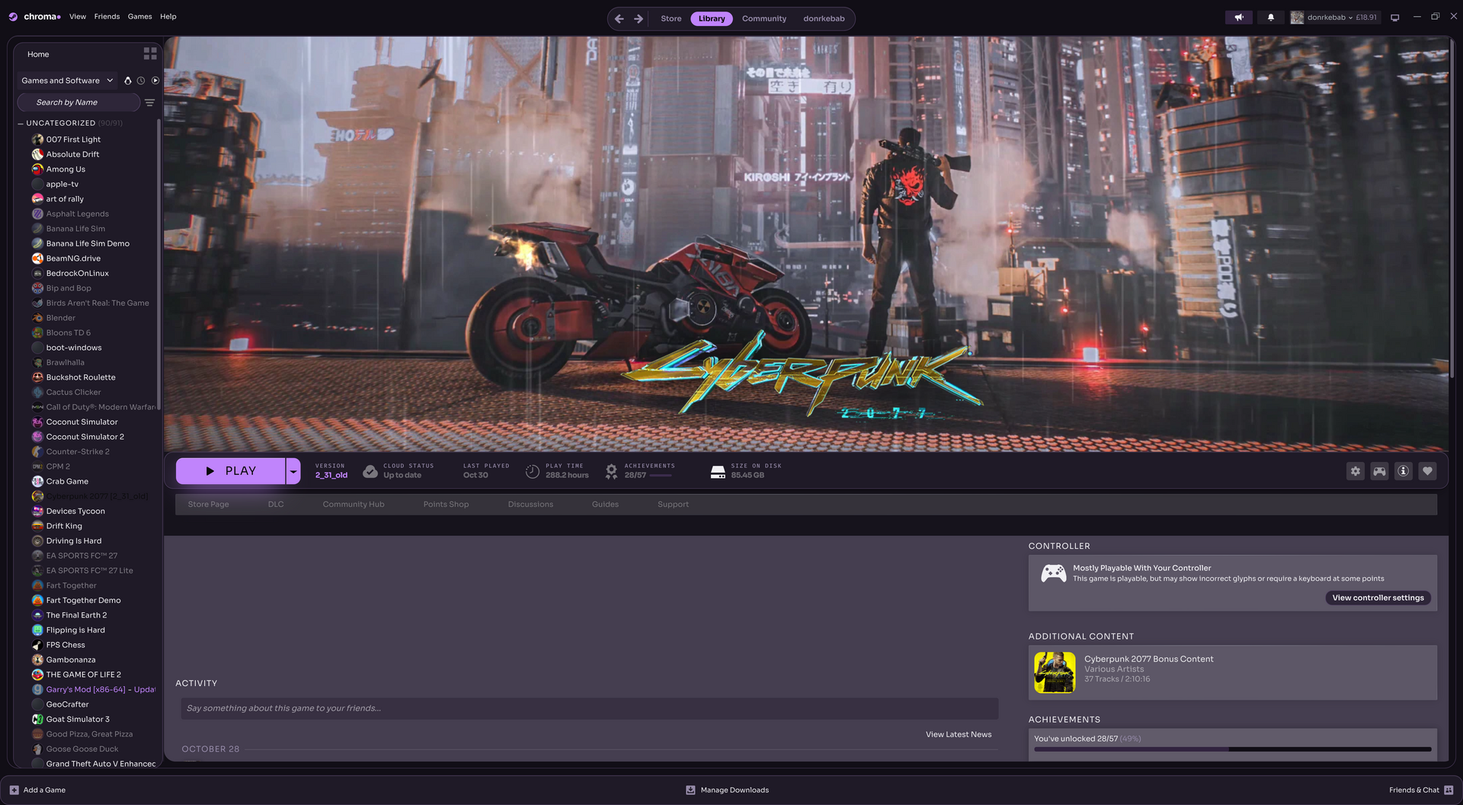
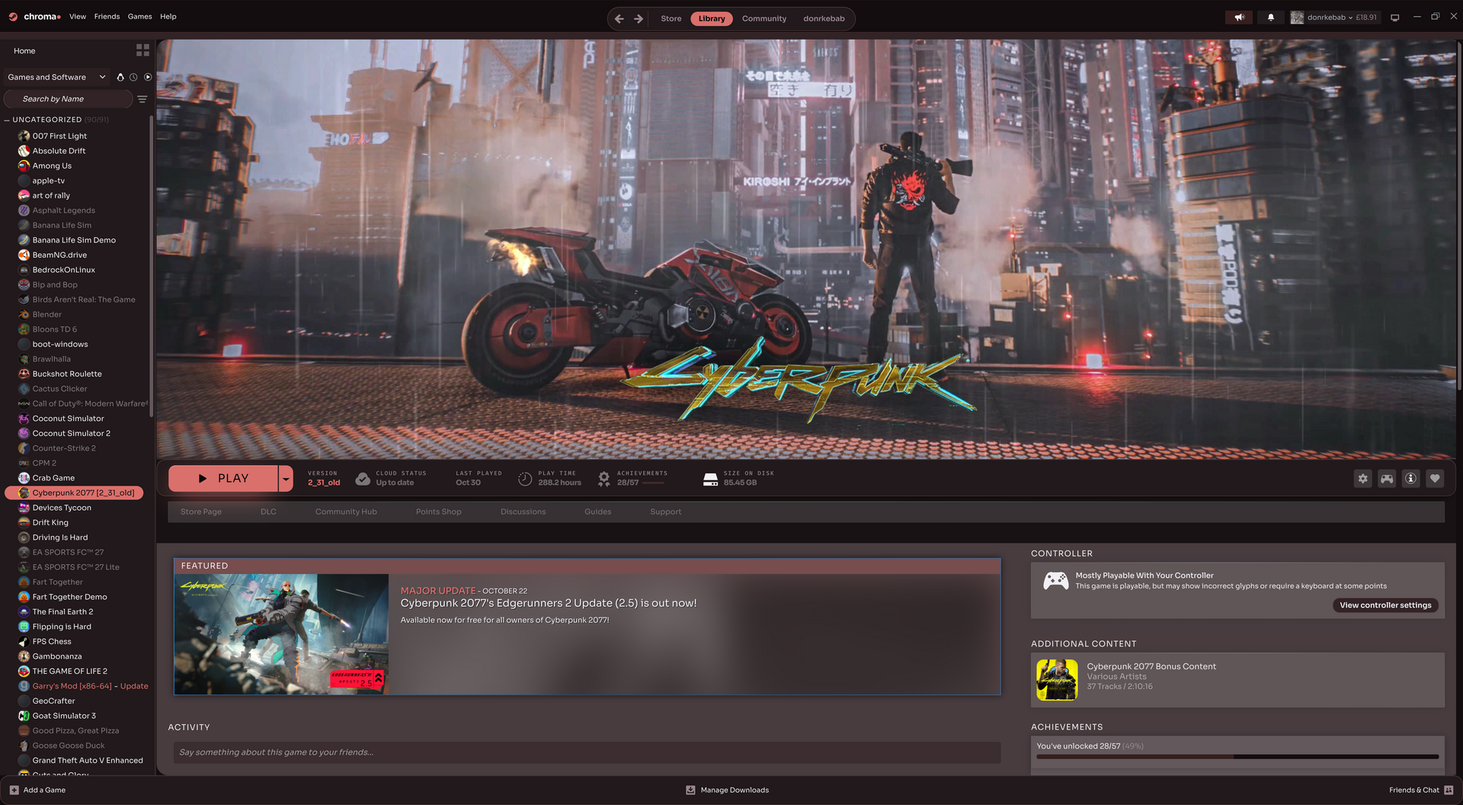
Emerald idle colour, flush layout with pill-chip shelves, refreshed screenshots

diff --git a/mx/main.css b/mx/main.css
@@ -825,7 +825,7 @@ button.DialogButton:disabled,button.DialogButton:disabled:hover,button.DialogBut
 .videoSrc{border-left:1px solid var(--g0)!important;border-right:1px solid var(--g0)!important;background-color:var(--g1)!important}
 .StandalonePlayerHeader{background-color:color-mix(in srgb,var(--g2) 30%,transparent)!important}
 .yCd0zjymzfw3HkVm-1YwX{background-color:var(--g1)!important;background-color:var(--g0)!important}
-:root{--acc:#c084fc;--acc2:color-mix(in srgb,var(--acc) 60%,#fff);--bg-solid:color-mix(in srgb,var(--acc) 5%,#08080a);--bg:var(--bg-solid);--text:#f1f0f4;--mute:color-mix(in srgb,var(--acc) 18%,#8a8a94);--font:'Sora',system-ui,sans-serif;--font-display:'Sora',system-ui,sans-serif;--font-mono:'Fira Code',monospace;--r:12px;--grain:0;--surface-solid:color-mix(in srgb,var(--acc) 8%,#111114);--surface-solid-2:color-mix(in srgb,var(--acc) 13%,#18181c);--surface:var(--surface-solid);--surface-2:var(--surface-solid-2);--panel:var(--surface-solid);--pop:var(--surface-solid-2);--input:var(--surface-solid-2);--dock:var(--surface-solid);--hover:color-mix(in srgb,var(--acc) 12%,transparent);--line:color-mix(in srgb,var(--acc) 16%,#ffffff12);--line-hi:color-mix(in srgb,var(--acc) 60%,transparent);--thumb:color-mix(in srgb,var(--acc) 30%,#ffffff20);--ring:color-mix(in srgb,var(--acc) 30%,transparent);--hi:#ffffff0d;--spot:transparent;--fx:none;--fx-anim:none;--h-size:26px;--h-w:700;--h-ls:-.03em;--h-fill:linear-gradient(#f1f0f4,#f1f0f4);--rule:var(--line);--btn-r:12px;--btn-bg:var(--surface-solid-2);--btn-fg:#f1f0f4;--btn-border:1px solid var(--line);--btn-bg-h:color-mix(in srgb,var(--acc) 20%,#1c1c20);--btn-fg-h:#fff;--btn-glow:0 0 0 1px var(--line-hi);--btn-pri:var(--acc);--btn-pri-fg:#0b0b0d;--gap:12px;--rx:16px;--rx-xl:20px;--icon-r:8px;--sel:var(--acc);--sel-fg:#0b0b0d;--sh-size:15px;--shelf-size:22px;--store-h1:36px;--cover-r:12px;--cover-glow:0 14px 30px -14px var(--acc);--rail-bg:var(--surface-solid);--logo-a:"chroma";--logo-b:"●";--logo-font:700 15px 'Sora',sans-serif;--logo-ls:-.03em;--nav-size:13px;--nav-w:600;--nav-ls:-.01em;--nav-r:999px;--nav-sel-bg:var(--acc);--nav-sel-fg:#0b0b0d;--login-h:34px;--avatar-r:50%;--bubble-r:14px;--play-r:12px;--stat-size:18px;--price-bg:var(--acc);--price-fg:#0b0b0d;--st-online:#7dd3fc;--st-ingame:#86efac}
+:root{--acc:#34d399;--acc2:color-mix(in srgb,var(--acc) 60%,#fff);--bg-solid:color-mix(in srgb,var(--acc) 5%,#08080a);--bg:var(--bg-solid);--text:#f1f0f4;--mute:color-mix(in srgb,var(--acc) 18%,#8a8a94);--font:'Sora',system-ui,sans-serif;--font-display:'Sora',system-ui,sans-serif;--font-mono:'Fira Code',monospace;--r:12px;--grain:0;--surface-solid:color-mix(in srgb,var(--acc) 8%,#111114);--surface-solid-2:color-mix(in srgb,var(--acc) 13%,#18181c);--surface:var(--surface-solid);--surface-2:var(--surface-solid-2);--panel:var(--surface-solid);--pop:var(--surface-solid-2);--input:var(--surface-solid-2);--dock:var(--surface-solid);--hover:color-mix(in srgb,var(--acc) 12%,transparent);--line:color-mix(in srgb,var(--acc) 16%,#ffffff12);--line-hi:color-mix(in srgb,var(--acc) 60%,transparent);--thumb:color-mix(in srgb,var(--acc) 30%,#ffffff20);--ring:color-mix(in srgb,var(--acc) 30%,transparent);--hi:#ffffff0d;--spot:transparent;--fx:none;--fx-anim:none;--h-size:26px;--h-w:700;--h-ls:-.03em;--h-fill:linear-gradient(#f1f0f4,#f1f0f4);--rule:var(--line);--btn-r:12px;--btn-bg:var(--surface-solid-2);--btn-fg:#f1f0f4;--btn-border:1px solid var(--line);--btn-bg-h:color-mix(in srgb,var(--acc) 20%,#1c1c20);--btn-fg-h:#fff;--btn-glow:0 0 0 1px var(--line-hi);--btn-pri:var(--acc);--btn-pri-fg:#0b0b0d;--gap:12px;--rx:16px;--rx-xl:20px;--icon-r:8px;--sel:var(--acc);--sel-fg:#0b0b0d;--sh-size:15px;--shelf-size:22px;--store-h1:36px;--cover-r:12px;--cover-glow:0 14px 30px -14px var(--acc);--rail-bg:var(--surface-solid);--logo-a:"chroma";--logo-b:"●";--logo-font:700 15px 'Sora',sans-serif;--logo-ls:-.03em;--nav-size:13px;--nav-w:600;--nav-ls:-.01em;--nav-r:999px;--nav-sel-bg:var(--acc);--nav-sel-fg:#0b0b0d;--login-h:34px;--avatar-r:50%;--bubble-r:14px;--play-r:12px;--stat-size:18px;--price-bg:var(--acc);--price-fg:#0b0b0d;--st-online:#7dd3fc;--st-ingame:#86efac}
 html,body{-webkit-font-smoothing:antialiased}
 body::before{content:"";position:fixed;inset:-20%;pointer-events:none;z-index:0;contain:strict;background:var(--fx)}
 ._3AhYljPF4e4E8LaBt-FoY0{border-radius:var(--r);transition:.1s}
@@ -925,12 +925,11 @@ body::before{content:"";position:fixed;inset:-20%;pointer-events:none;z-index:0;
 #q-load{position:fixed;inset:0;z-index:2147483000;display:flex;flex-direction:column;align-items:center;justify-content:center;gap:20px;background:var(--bg-solid);transition:opacity .3s ease}
 #q-load .q-mark::before{content:var(--logo-a) var(--logo-b);font:var(--logo-font);font-size:56px;letter-spacing:var(--logo-ls,0);color:var(--text);line-height:1}
 #q-load.out{opacity:0;pointer-events:none}
-:root{--acc:#c084fc;--acc2:color-mix(in srgb,var(--acc) 60%,#fff);--bg-solid:color-mix(in srgb,var(--acc) 5%,#08080a);--bg:var(--bg-solid);--text:#f1f0f4;--mute:color-mix(in srgb,var(--acc) 18%,#8a8a94);--font:'Sora',system-ui,sans-serif;--font-display:'Sora',system-ui,sans-serif;--font-mono:'Fira Code',monospace;--r:12px;--grain:0;--surface-solid:color-mix(in srgb,var(--acc) 8%,#111114);--surface-solid-2:color-mix(in srgb,var(--acc) 13%,#18181c);--surface:var(--surface-solid);--surface-2:var(--surface-solid-2);--panel:var(--surface-solid);--pop:var(--surface-solid-2);--input:var(--surface-solid-2);--dock:var(--surface-solid);--hover:color-mix(in srgb,var(--acc) 12%,transparent);--line:color-mix(in srgb,var(--acc) 16%,#ffffff12);--line-hi:color-mix(in srgb,var(--acc) 60%,transparent);--thumb:color-mix(in srgb,var(--acc) 30%,#ffffff20);--ring:color-mix(in srgb,var(--acc) 30%,transparent);--hi:#ffffff0d;--spot:transparent;--fx:none;--fx-anim:none;--h-size:26px;--h-w:700;--h-ls:-.03em;--h-fill:linear-gradient(#f1f0f4,#f1f0f4);--rule:var(--line);--btn-r:12px;--btn-bg:var(--surface-solid-2);--btn-fg:#f1f0f4;--btn-border:1px solid var(--line);--btn-bg-h:color-mix(in srgb,var(--acc) 20%,#1c1c20);--btn-fg-h:#fff;--btn-glow:0 0 0 1px var(--line-hi);--btn-pri:var(--acc);--btn-pri-fg:#0b0b0d;--gap:12px;--rx:16px;--rx-xl:20px;--icon-r:8px;--sel:var(--acc);--sel-fg:#0b0b0d;--sh-size:15px;--shelf-size:22px;--store-h1:36px;--cover-r:12px;--cover-glow:0 14px 30px -14px var(--acc);--rail-bg:var(--surface-solid);--logo-a:"chroma";--logo-b:"●";--logo-font:700 15px 'Sora',sans-serif;--logo-ls:-.03em;--nav-size:13px;--nav-w:600;--nav-ls:-.01em;--nav-r:999px;--nav-sel-bg:var(--acc);--nav-sel-fg:#0b0b0d;--login-h:34px;--avatar-r:50%;--bubble-r:14px;--play-r:12px;--stat-size:18px;--price-bg:var(--acc);--price-fg:#0b0b0d;--st-online:#7dd3fc;--st-ingame:#86efac}
-._3x1HklzyDs4TEjACrRO2tB{overflow:hidden}
+:root{--acc:#34d399;--acc2:color-mix(in srgb,var(--acc) 60%,#fff);--bg-solid:color-mix(in srgb,var(--acc) 5%,#08080a);--bg:var(--bg-solid);--text:#f1f0f4;--mute:color-mix(in srgb,var(--acc) 18%,#8a8a94);--font:'Sora',system-ui,sans-serif;--font-display:'Sora',system-ui,sans-serif;--font-mono:'Fira Code',monospace;--r:12px;--grain:0;--surface-solid:color-mix(in srgb,var(--acc) 8%,#111114);--surface-solid-2:color-mix(in srgb,var(--acc) 13%,#18181c);--surface:var(--surface-solid);--surface-2:var(--surface-solid-2);--panel:var(--surface-solid);--pop:var(--surface-solid-2);--input:var(--surface-solid-2);--dock:var(--surface-solid);--hover:color-mix(in srgb,var(--acc) 12%,transparent);--line:color-mix(in srgb,var(--acc) 16%,#ffffff12);--line-hi:color-mix(in srgb,var(--acc) 60%,transparent);--thumb:color-mix(in srgb,var(--acc) 30%,#ffffff20);--ring:color-mix(in srgb,var(--acc) 30%,transparent);--hi:#ffffff0d;--spot:transparent;--fx:none;--fx-anim:none;--h-size:26px;--h-w:700;--h-ls:-.03em;--h-fill:linear-gradient(#f1f0f4,#f1f0f4);--rule:var(--line);--btn-r:12px;--btn-bg:var(--surface-solid-2);--btn-fg:#f1f0f4;--btn-border:1px solid var(--line);--btn-bg-h:color-mix(in srgb,var(--acc) 20%,#1c1c20);--btn-fg-h:#fff;--btn-glow:0 0 0 1px var(--line-hi);--btn-pri:var(--acc);--btn-pri-fg:#0b0b0d;--gap:12px;--rx:16px;--rx-xl:20px;--icon-r:8px;--sel:var(--acc);--sel-fg:#0b0b0d;--sh-size:15px;--shelf-size:22px;--store-h1:36px;--cover-r:12px;--cover-glow:0 14px 30px -14px var(--acc);--rail-bg:var(--surface-solid);--logo-a:"chroma";--logo-b:"●";--logo-font:700 15px 'Sora',sans-serif;--logo-ls:-.03em;--nav-size:13px;--nav-w:600;--nav-ls:-.01em;--nav-r:999px;--nav-sel-bg:var(--acc);--nav-sel-fg:#0b0b0d;--login-h:34px;--avatar-r:50%;--bubble-r:14px;--play-r:12px;--stat-size:18px;--price-bg:var(--acc);--price-fg:#0b0b0d;--st-online:#7dd3fc;--st-ingame:#86efac}
 ._23SnllqT_AqZ1C_QHcNQ4Z::after{display:none}
 ._1R9r2OBCxAmtuUVrgBEUBw:hover{transform:translateY(-4px) scale(1.02)}
 @layer theme{
-:root{--st-background:10,10,12!important;--st-color-1:17,17,20!important;--st-color-2:24,24,28!important;--st-color-3:19,19,22!important;--st-color-4:21,21,25!important;--st-color-5:40,40,46!important;--st-color-6:34,34,39!important;--st-accent-1:192,132,252!important;--st-accent-2:216,180,254!important;--st-blue:192,132,252!important;--st-blue-hover:216,180,254!important;--st-green:74,222,128!important;--st-green-hover:110,231,155!important;--st-red:248,113,113!important;--st-red-hover:252,140,140!important;--st-yellow:250,204,21!important;--st-yellow-hover:253,224,71!important;--st-border-radius:14px!important}
+:root{--st-background:10,10,12!important;--st-color-1:17,17,20!important;--st-color-2:24,24,28!important;--st-color-3:19,19,22!important;--st-color-4:21,21,25!important;--st-color-5:40,40,46!important;--st-color-6:34,34,39!important;--st-accent-1:52,211,153!important;--st-accent-2:167,243,208!important;--st-blue:52,211,153!important;--st-blue-hover:110,231,183!important;--st-green:74,222,128!important;--st-green-hover:110,231,155!important;--st-red:248,113,113!important;--st-red-hover:252,140,140!important;--st-yellow:250,204,21!important;--st-yellow-hover:253,224,71!important;--st-border-radius:14px!important}
 :root{--gpColor-Blue:var(--acc)!important;--gpColor-Yellow:var(--acc2)!important}
 html,body{background:var(--bg)!important;color:var(--text)!important;font-family:var(--font)!important}
 *::selection{background:transparent!important;color:inherit!important}
@@ -1088,9 +1087,11 @@ body :is(input,textarea,:is([contenteditable=""],[contenteditable=true],[content
 .Rp8QOGJ2DypeDniMnRBhr ._3CN5DkgNMvdtT9fJhNOj_v::before{font-size:44px!important}
 .Rp8QOGJ2DypeDniMnRBhr ._6Z2AOU-R-8aK7KZevey0W img{border-radius:var(--avatar-r,50%)!important;box-shadow:0 0 0 2px var(--bg-solid),0 0 0 4px var(--acc)!important}
 .Rp8QOGJ2DypeDniMnRBhr ._6Z2AOU-R-8aK7KZevey0W{font-family:var(--font-display)!important;color:var(--text)!important}
-:root{--st-background:10,10,12!important;--st-color-1:17,17,20!important;--st-color-2:24,24,28!important;--st-color-3:19,19,22!important;--st-color-4:21,21,25!important;--st-color-5:40,40,46!important;--st-color-6:34,34,39!important;--st-accent-1:192,132,252!important;--st-accent-2:216,180,254!important;--st-blue:192,132,252!important;--st-blue-hover:216,180,254!important;--st-green:74,222,128!important;--st-green-hover:110,231,155!important;--st-red:248,113,113!important;--st-red-hover:252,140,140!important;--st-yellow:250,204,21!important;--st-yellow-hover:253,224,71!important;--st-border-radius:14px!important}
-._3x1HklzyDs4TEjACrRO2tB{margin:10px 0 10px 10px!important;border:1px solid var(--line)!important;border-radius:18px!important}
-.V7RuDNUxhxoBRaiGWbk3B,.rvYRfhjWoi57GShuRcAwP{margin:0 12px 12px!important;padding:16px 22px 22px!important;background:var(--surface-solid)!important;border:1px solid var(--line)!important;border-radius:18px!important}
-._3x1HklzyDs4TEjACrRO2tB ._2-O4ZG0KrnSrzISHBKctFQ{border-radius:10px!important;margin:1px 8px!important}
+:root{--st-background:10,10,12!important;--st-color-1:17,17,20!important;--st-color-2:24,24,28!important;--st-color-3:19,19,22!important;--st-color-4:21,21,25!important;--st-color-5:40,40,46!important;--st-color-6:34,34,39!important;--st-accent-1:52,211,153!important;--st-accent-2:167,243,208!important;--st-blue:52,211,153!important;--st-blue-hover:110,231,183!important;--st-green:74,222,128!important;--st-green-hover:110,231,155!important;--st-red:248,113,113!important;--st-red-hover:252,140,140!important;--st-yellow:250,204,21!important;--st-yellow-hover:253,224,71!important;--st-border-radius:14px!important}
+._3x1HklzyDs4TEjACrRO2tB{margin:0!important;border:0!important;border-right:1px solid var(--line)!important;border-radius:0!important}
+._1rDh5rXSFZJOqCa4UpnI4z{margin:0!important;border-radius:0!important;border:0!important;border-top:1px solid var(--line)!important;box-shadow:none!important}
+.V7RuDNUxhxoBRaiGWbk3B,.rvYRfhjWoi57GShuRcAwP{margin:0!important;padding:18px 28px 26px!important;background:transparent!important;border:0!important;border-radius:0!important}
+._23SnllqT_AqZ1C_QHcNQ4Z>*:first-child{display:inline-flex!important;padding:6px 14px!important;border-radius:999px!important;background:color-mix(in srgb,var(--acc) 16%,transparent)!important;color:var(--acc)!important;font-size:15px!important;letter-spacing:-.01em!important}
+._3x1HklzyDs4TEjACrRO2tB ._2-O4ZG0KrnSrzISHBKctFQ{border-radius:999px!important;margin:1px 8px!important}
 ._2UyOBeiSdBayaFdRa39N2O:nth-of-type(1)::after{color:var(--acc)!important}
 }

diff --git a/mx/popup.css b/mx/popup.css
@@ -47,7 +47,7 @@
   unicode-range: U+0000-00FF, U+0131, U+0152-0153, U+02BB-02BC, U+02C6, U+02DA, U+02DC, U+0304, U+0308, U+0329, U+2000-206F, U+20AC, U+2122, U+2191, U+2193, U+2212, U+2215, U+FEFF, U+FFFD;
 }
 @layer opt, theme;
-:root{--acc:#c084fc;--acc2:color-mix(in srgb,var(--acc) 60%,#fff);--bg-solid:color-mix(in srgb,var(--acc) 5%,#08080a);--bg:var(--bg-solid);--text:#f1f0f4;--mute:color-mix(in srgb,var(--acc) 18%,#8a8a94);--font:'Sora',system-ui,sans-serif;--font-display:'Sora',system-ui,sans-serif;--font-mono:'Fira Code',monospace;--r:12px;--grain:0;--surface-solid:color-mix(in srgb,var(--acc) 8%,#111114);--surface-solid-2:color-mix(in srgb,var(--acc) 13%,#18181c);--surface:var(--surface-solid);--surface-2:var(--surface-solid-2);--panel:var(--surface-solid);--pop:var(--surface-solid-2);--input:var(--surface-solid-2);--dock:var(--surface-solid);--hover:color-mix(in srgb,var(--acc) 12%,transparent);--line:color-mix(in srgb,var(--acc) 16%,#ffffff12);--line-hi:color-mix(in srgb,var(--acc) 60%,transparent);--thumb:color-mix(in srgb,var(--acc) 30%,#ffffff20);--ring:color-mix(in srgb,var(--acc) 30%,transparent);--hi:#ffffff0d;--spot:transparent;--fx:none;--fx-anim:none;--h-size:26px;--h-w:700;--h-ls:-.03em;--h-fill:linear-gradient(#f1f0f4,#f1f0f4);--rule:var(--line);--btn-r:12px;--btn-bg:var(--surface-solid-2);--btn-fg:#f1f0f4;--btn-border:1px solid var(--line);--btn-bg-h:color-mix(in srgb,var(--acc) 20%,#1c1c20);--btn-fg-h:#fff;--btn-glow:0 0 0 1px var(--line-hi);--btn-pri:var(--acc);--btn-pri-fg:#0b0b0d;--gap:12px;--rx:16px;--rx-xl:20px;--icon-r:8px;--sel:var(--acc);--sel-fg:#0b0b0d;--sh-size:15px;--shelf-size:22px;--store-h1:36px;--cover-r:12px;--cover-glow:0 14px 30px -14px var(--acc);--rail-bg:var(--surface-solid);--logo-a:"chroma";--logo-b:"●";--logo-font:700 15px 'Sora',sans-serif;--logo-ls:-.03em;--nav-size:13px;--nav-w:600;--nav-ls:-.01em;--nav-r:999px;--nav-sel-bg:var(--acc);--nav-sel-fg:#0b0b0d;--login-h:34px;--avatar-r:50%;--bubble-r:14px;--play-r:12px;--stat-size:18px;--price-bg:var(--acc);--price-fg:#0b0b0d;--st-online:#7dd3fc;--st-ingame:#86efac}
+:root{--acc:#34d399;--acc2:color-mix(in srgb,var(--acc) 60%,#fff);--bg-solid:color-mix(in srgb,var(--acc) 5%,#08080a);--bg:var(--bg-solid);--text:#f1f0f4;--mute:color-mix(in srgb,var(--acc) 18%,#8a8a94);--font:'Sora',system-ui,sans-serif;--font-display:'Sora',system-ui,sans-serif;--font-mono:'Fira Code',monospace;--r:12px;--grain:0;--surface-solid:color-mix(in srgb,var(--acc) 8%,#111114);--surface-solid-2:color-mix(in srgb,var(--acc) 13%,#18181c);--surface:var(--surface-solid);--surface-2:var(--surface-solid-2);--panel:var(--surface-solid);--pop:var(--surface-solid-2);--input:var(--surface-solid-2);--dock:var(--surface-solid);--hover:color-mix(in srgb,var(--acc) 12%,transparent);--line:color-mix(in srgb,var(--acc) 16%,#ffffff12);--line-hi:color-mix(in srgb,var(--acc) 60%,transparent);--thumb:color-mix(in srgb,var(--acc) 30%,#ffffff20);--ring:color-mix(in srgb,var(--acc) 30%,transparent);--hi:#ffffff0d;--spot:transparent;--fx:none;--fx-anim:none;--h-size:26px;--h-w:700;--h-ls:-.03em;--h-fill:linear-gradient(#f1f0f4,#f1f0f4);--rule:var(--line);--btn-r:12px;--btn-bg:var(--surface-solid-2);--btn-fg:#f1f0f4;--btn-border:1px solid var(--line);--btn-bg-h:color-mix(in srgb,var(--acc) 20%,#1c1c20);--btn-fg-h:#fff;--btn-glow:0 0 0 1px var(--line-hi);--btn-pri:var(--acc);--btn-pri-fg:#0b0b0d;--gap:12px;--rx:16px;--rx-xl:20px;--icon-r:8px;--sel:var(--acc);--sel-fg:#0b0b0d;--sh-size:15px;--shelf-size:22px;--store-h1:36px;--cover-r:12px;--cover-glow:0 14px 30px -14px var(--acc);--rail-bg:var(--surface-solid);--logo-a:"chroma";--logo-b:"●";--logo-font:700 15px 'Sora',sans-serif;--logo-ls:-.03em;--nav-size:13px;--nav-w:600;--nav-ls:-.01em;--nav-r:999px;--nav-sel-bg:var(--acc);--nav-sel-fg:#0b0b0d;--login-h:34px;--avatar-r:50%;--bubble-r:14px;--play-r:12px;--stat-size:18px;--price-bg:var(--acc);--price-fg:#0b0b0d;--st-online:#7dd3fc;--st-ingame:#86efac}
 :root{--ease:cubic-bezier(.2,.9,.25,1)}
 ._1OOQPJx0nCNP9ME9toCmV7 ._3-H47wPl1Ng3lh7xGZOPIg{overflow:hidden;position:relative;animation:toast .35s var(--ease) both}
 ._1OOQPJx0nCNP9ME9toCmV7 ._3-H47wPl1Ng3lh7xGZOPIg::before{content:"";position:absolute;left:0;top:0;bottom:0;width:3px;background:linear-gradient(var(--acc),var(--acc2))}
@@ -55,7 +55,7 @@
 ._1n7Wloe5jZ6fSuvV18NNWI,._1BAKXmqQdWRWmWX9_CbhuY,.contextMenuItem{font-weight:500}
 .Z5iAXBkRFGnwpXsO8ANTl._1n7Wloe5jZ6fSuvV18NNWI{font-weight:700}
 @layer theme{
-:root{--st-background:10,10,12!important;--st-color-1:17,17,20!important;--st-color-2:24,24,28!important;--st-color-3:19,19,22!important;--st-color-4:21,21,25!important;--st-color-5:40,40,46!important;--st-color-6:34,34,39!important;--st-accent-1:192,132,252!important;--st-accent-2:216,180,254!important;--st-blue:192,132,252!important;--st-blue-hover:216,180,254!important;--st-green:74,222,128!important;--st-green-hover:110,231,155!important;--st-red:248,113,113!important;--st-red-hover:252,140,140!important;--st-yellow:250,204,21!important;--st-yellow-hover:253,224,71!important;--st-border-radius:14px!important}
+:root{--st-background:10,10,12!important;--st-color-1:17,17,20!important;--st-color-2:24,24,28!important;--st-color-3:19,19,22!important;--st-color-4:21,21,25!important;--st-color-5:40,40,46!important;--st-color-6:34,34,39!important;--st-accent-1:52,211,153!important;--st-accent-2:167,243,208!important;--st-blue:52,211,153!important;--st-blue-hover:110,231,183!important;--st-green:74,222,128!important;--st-green-hover:110,231,155!important;--st-red:248,113,113!important;--st-red-hover:252,140,140!important;--st-yellow:250,204,21!important;--st-yellow-hover:253,224,71!important;--st-border-radius:14px!important}
 body.DesktopUI,html:has(body.DesktopUI){background:transparent!important;background-image:none!important}
 html,body{background:transparent!important;font-family:var(--font)!important;color:var(--text)!important}
 ._1OOQPJx0nCNP9ME9toCmV7 ._3-H47wPl1Ng3lh7xGZOPIg{background:var(--pop)!important;border:1px solid var(--line)!important;border-radius:var(--rx)!important;box-shadow:inset 0 1px 0 var(--hi),0 16px 40px -16px #000!important}

diff --git a/mx/webkit.css b/mx/webkit.css
@@ -46,7 +46,7 @@
   src: url(fonts/4fa0aa0cc4d9.woff2) format('woff2');
   unicode-range: U+0000-00FF, U+0131, U+0152-0153, U+02BB-02BC, U+02C6, U+02DA, U+02DC, U+0304, U+0308, U+0329, U+2000-206F, U+20AC, U+2122, U+2191, U+2193, U+2212, U+2215, U+FEFF, U+FFFD;
 }
-:root{--acc:#c084fc;--acc2:color-mix(in srgb,var(--acc) 60%,#fff);--bg-solid:color-mix(in srgb,var(--acc) 5%,#08080a);--bg:var(--bg-solid);--text:#f1f0f4;--mute:color-mix(in srgb,var(--acc) 18%,#8a8a94);
+:root{--acc:#34d399;--acc2:color-mix(in srgb,var(--acc) 60%,#fff);--bg-solid:color-mix(in srgb,var(--acc) 5%,#08080a);--bg:var(--bg-solid);--text:#f1f0f4;--mute:color-mix(in srgb,var(--acc) 18%,#8a8a94);
 --font:'Sora',system-ui,sans-serif;--font-display:'Sora',system-ui,sans-serif;--font-mono:'Fira Code',monospace;--r:12px;--grain:0;
 --surface-solid:color-mix(in srgb,var(--acc) 8%,#111114);--surface-solid-2:color-mix(in srgb,var(--acc) 13%,#18181c);--surface:var(--surface-solid);--surface-2:var(--surface-solid-2);
 --panel:var(--surface-solid);--pop:var(--surface-solid-2);--input:var(--surface-solid-2);--dock:var(--surface-solid);--hover:color-mix(in srgb,var(--acc) 12%,transparent);
@@ -56,7 +56,7 @@
 --gap:12px;--rx:16px;--rx-xl:20px;--icon-r:8px;--sel:var(--acc);--sel-fg:#0b0b0d;--sh-size:15px;--shelf-size:22px;--store-h1:36px;--cover-r:12px;--cover-glow:0 14px 30px -14px var(--acc);--rail-bg:var(--surface-solid);
 --logo-a:"chroma";--logo-b:"●";--logo-font:700 15px 'Sora',sans-serif;--logo-ls:-.03em;
 --nav-size:13px;--nav-w:600;--nav-ls:-.01em;--nav-r:999px;--nav-sel-bg:var(--acc);--nav-sel-fg:#0b0b0d;--login-h:34px;--avatar-r:50%;--bubble-r:14px;--play-r:12px;--stat-size:18px;--price-bg:var(--acc);--price-fg:#0b0b0d;--st-online:#7dd3fc;--st-ingame:#86efac}
-:root{--st-background:10,10,12!important;--st-color-1:17,17,20!important;--st-color-2:24,24,28!important;--st-color-3:19,19,22!important;--st-color-4:21,21,25!important;--st-color-5:40,40,46!important;--st-color-6:34,34,39!important;--st-accent-1:192,132,252!important;--st-accent-2:216,180,254!important;--st-blue:192,132,252!important;--st-blue-hover:216,180,254!important;--st-green:74,222,128!important;--st-green-hover:110,231,155!important;--st-red:248,113,113!important;--st-red-hover:252,140,140!important;--st-yellow:250,204,21!important;--st-yellow-hover:253,224,71!important;--st-border-radius:14px!important}
+:root{--st-background:10,10,12!important;--st-color-1:17,17,20!important;--st-color-2:24,24,28!important;--st-color-3:19,19,22!important;--st-color-4:21,21,25!important;--st-color-5:40,40,46!important;--st-color-6:34,34,39!important;--st-accent-1:52,211,153!important;--st-accent-2:167,243,208!important;--st-blue:52,211,153!important;--st-blue-hover:110,231,183!important;--st-green:74,222,128!important;--st-green-hover:110,231,155!important;--st-red:248,113,113!important;--st-red-hover:252,140,140!important;--st-yellow:250,204,21!important;--st-yellow-hover:253,224,71!important;--st-border-radius:14px!important}
 /* store / community pages */
 html,body,body.v6,.responsive_page_frame,.page_background_holder{background:var(--bg)!important;color:var(--text)!important;font-family:var(--font)!important}
 ::selection{background:var(--acc);color:var(--bg-solid)}

diff --git a/mx/root.css b/mx/root.css
@@ -1,4 +1,4 @@
-:root{--acc:#c084fc;--acc2:color-mix(in srgb,var(--acc) 60%,#fff);--bg-solid:color-mix(in srgb,var(--acc) 5%,#08080a);--bg:var(--bg-solid);--text:#f1f0f4;--mute:color-mix(in srgb,var(--acc) 18%,#8a8a94);
+:root{--acc:#34d399;--acc2:color-mix(in srgb,var(--acc) 60%,#fff);--bg-solid:color-mix(in srgb,var(--acc) 5%,#08080a);--bg:var(--bg-solid);--text:#f1f0f4;--mute:color-mix(in srgb,var(--acc) 18%,#8a8a94);
 --font:'Sora',system-ui,sans-serif;--font-display:'Sora',system-ui,sans-serif;--font-mono:'Fira Code',monospace;--r:12px;--grain:0;
 --surface-solid:color-mix(in srgb,var(--acc) 8%,#111114);--surface-solid-2:color-mix(in srgb,var(--acc) 13%,#18181c);--surface:var(--surface-solid);--surface-2:var(--surface-solid-2);
 --panel:var(--surface-solid);--pop:var(--surface-solid-2);--input:var(--surface-solid-2);--dock:var(--surface-solid);--hover:color-mix(in srgb,var(--acc) 12%,transparent);
@@ -8,4 +8,4 @@
 --gap:12px;--rx:16px;--rx-xl:20px;--icon-r:8px;--sel:var(--acc);--sel-fg:#0b0b0d;--sh-size:15px;--shelf-size:22px;--store-h1:36px;--cover-r:12px;--cover-glow:0 14px 30px -14px var(--acc);--rail-bg:var(--surface-solid);
 --logo-a:"chroma";--logo-b:"●";--logo-font:700 15px 'Sora',sans-serif;--logo-ls:-.03em;
 --nav-size:13px;--nav-w:600;--nav-ls:-.01em;--nav-r:999px;--nav-sel-bg:var(--acc);--nav-sel-fg:#0b0b0d;--login-h:34px;--avatar-r:50%;--bubble-r:14px;--play-r:12px;--stat-size:18px;--price-bg:var(--acc);--price-fg:#0b0b0d;--st-online:#7dd3fc;--st-ingame:#86efac}
-:root{--st-background:10,10,12!important;--st-color-1:17,17,20!important;--st-color-2:24,24,28!important;--st-color-3:19,19,22!important;--st-color-4:21,21,25!important;--st-color-5:40,40,46!important;--st-color-6:34,34,39!important;--st-accent-1:192,132,252!important;--st-accent-2:216,180,254!important;--st-blue:192,132,252!important;--st-blue-hover:216,180,254!important;--st-green:74,222,128!important;--st-green-hover:110,231,155!important;--st-red:248,113,113!important;--st-red-hover:252,140,140!important;--st-yellow:250,204,21!important;--st-yellow-hover:253,224,71!important;--st-border-radius:14px!important}
+:root{--st-background:10,10,12!important;--st-color-1:17,17,20!important;--st-color-2:24,24,28!important;--st-color-3:19,19,22!important;--st-color-4:21,21,25!important;--st-color-5:40,40,46!important;--st-color-6:34,34,39!important;--st-accent-1:52,211,153!important;--st-accent-2:167,243,208!important;--st-blue:52,211,153!important;--st-blue-hover:110,231,183!important;--st-green:74,222,128!important;--st-green-hover:110,231,155!important;--st-red:248,113,113!important;--st-red-hover:252,140,140!important;--st-yellow:250,204,21!important;--st-yellow-hover:253,224,71!important;--st-border-radius:14px!important}

diff --git a/mx/main.js b/mx/main.js
@@ -24,7 +24,7 @@ const hsl=(r,g,b)=>{r/=255;g/=255;b/=255;const M=Math.max(r,g,b),m=Math.min(r,g,
 const pick=img=>{try{cx.drawImage(img,0,0,40,40);const d=cx.getImageData(0,0,40,40).data,bins={};
  for(let i=0;i<d.length;i+=4){const[h,s,l]=hsl(d[i],d[i+1],d[i+2]);if(s<.35||l<.18||l>.85)continue;const k=Math.round(h/15);const w=s*(1-Math.abs(l-.5));(bins[k]=bins[k]||{w:0,h:0,s:0}).w+=w;bins[k].h+=h*w;bins[k].s+=s*w}
  const b=Object.values(bins).sort((a,b)=>b.w-a.w)[0];if(!b)return null;const h=b.h/b.w,s=Math.min(.9,Math.max(.6,b.s/b.w));return`hsl(${h.toFixed(0)} ${(s*100).toFixed(0)}% 64%)`}catch(e){return null}};
-const run=()=>{const img=document.querySelector('.NZMJ6g2iVnFsOOp-lDmIP img.HNbe3eZf6H7dtJ042x1vM:not(.HSQWw9HUAP6jtA2OZjS-u)');if(!img||!img.complete||!img.naturalWidth||img.src===last)return;last=img.src;
- const c=pick(img);if(c){R.style.setProperty('--acc',c);try{localStorage.setItem('chroma-acc',c)}catch(e){}}};
-try{const s=localStorage.getItem('chroma-acc');if(s)R.style.setProperty('--acc',s)}catch(e){}
+const run=()=>{const img=document.querySelector('.NZMJ6g2iVnFsOOp-lDmIP img.HNbe3eZf6H7dtJ042x1vM:not(.HSQWw9HUAP6jtA2OZjS-u)');if(!img){if(last){last='';R.style.removeProperty('--acc')}return}if(!img.complete||!img.naturalWidth||img.src===last)return;last=img.src;
+ const c=pick(img);if(c)R.style.setProperty('--acc',c)};
+try{localStorage.removeItem('chroma-acc')}catch(e){}
 let t;new MutationObserver(()=>{clearTimeout(t);t=setTimeout(run,150)}).observe(R,{childList:true,subtree:true});document.addEventListener('load',e=>{if(e.target.tagName==='IMG')run()},true)})();

diff --git a/mx/opt/accent-fixedemerald.css b/mx/opt/accent-fixedemerald.css
@@ -1,0 +1,3 @@
+@layer opt{
+:root{--acc:#34d399!important;--acc2:#a7f3d0!important;--ring:#34d39940!important;--spot:#34d3991f!important;--line-hi:#34d39966!important;--sel:#34d399!important;--sel-fg:#0b0b0a!important;--nav-sel-fg:#34d399!important;--btn-pri:#34d399!important;--btn-pri-fg:#0b0b0a!important;--price-bg:#34d399!important;--price-fg:#0b0b0a!important;--st-accent-1:52,211,153!important;--st-accent-2:167,243,208!important;--st-blue:52,211,153!important;--st-blue-hover:167,243,208!important}
+}

diff --git a/mx/opt/accent-fixedgold.css b/mx/opt/accent-fixedgold.css
@@ -1,0 +1,3 @@
+@layer opt{
+:root{--acc:#fbbf24!important;--acc2:#fde68a!important;--ring:#fbbf2440!important;--spot:#fbbf241f!important;--line-hi:#fbbf2466!important;--sel:#fbbf24!important;--sel-fg:#0b0b0a!important;--nav-sel-fg:#fbbf24!important;--btn-pri:#fbbf24!important;--btn-pri-fg:#0b0b0a!important;--price-bg:#fbbf24!important;--price-fg:#0b0b0a!important;--st-accent-1:251,191,36!important;--st-accent-2:253,230,138!important;--st-blue:251,191,36!important;--st-blue-hover:253,230,138!important}
+}

diff --git a/mx/opt/accent-fixedmagenta.css b/mx/opt/accent-fixedmagenta.css
@@ -1,0 +1,3 @@
+@layer opt{
+:root{--acc:#f0389b!important;--acc2:#fbcfe8!important;--ring:#f0389b40!important;--spot:#f0389b1f!important;--line-hi:#f0389b66!important;--sel:#f0389b!important;--sel-fg:#ffffff!important;--nav-sel-fg:#f0389b!important;--btn-pri:#f0389b!important;--btn-pri-fg:#ffffff!important;--price-bg:#f0389b!important;--price-fg:#ffffff!important;--st-accent-1:240,56,155!important;--st-accent-2:251,207,232!important;--st-blue:240,56,155!important;--st-blue-hover:251,207,232!important}
+}

diff --git a/README.md b/README.md
@@ -17,7 +17,7 @@ https://github.com/ethembeldagli/steam-chroma
 
 ## Settings
 Steam → Millennium → Themes → Chroma → ⚙
-- **Accent color:** Auto (from game), Violet, Lime, Coral
+- **Accent color:** Auto (from game), or fixed Emerald, Magenta, Gold
 - **Corners:** default, sharp, extra round
 - **Motion:** full or reduced
 - **Backdrop:** on or off
